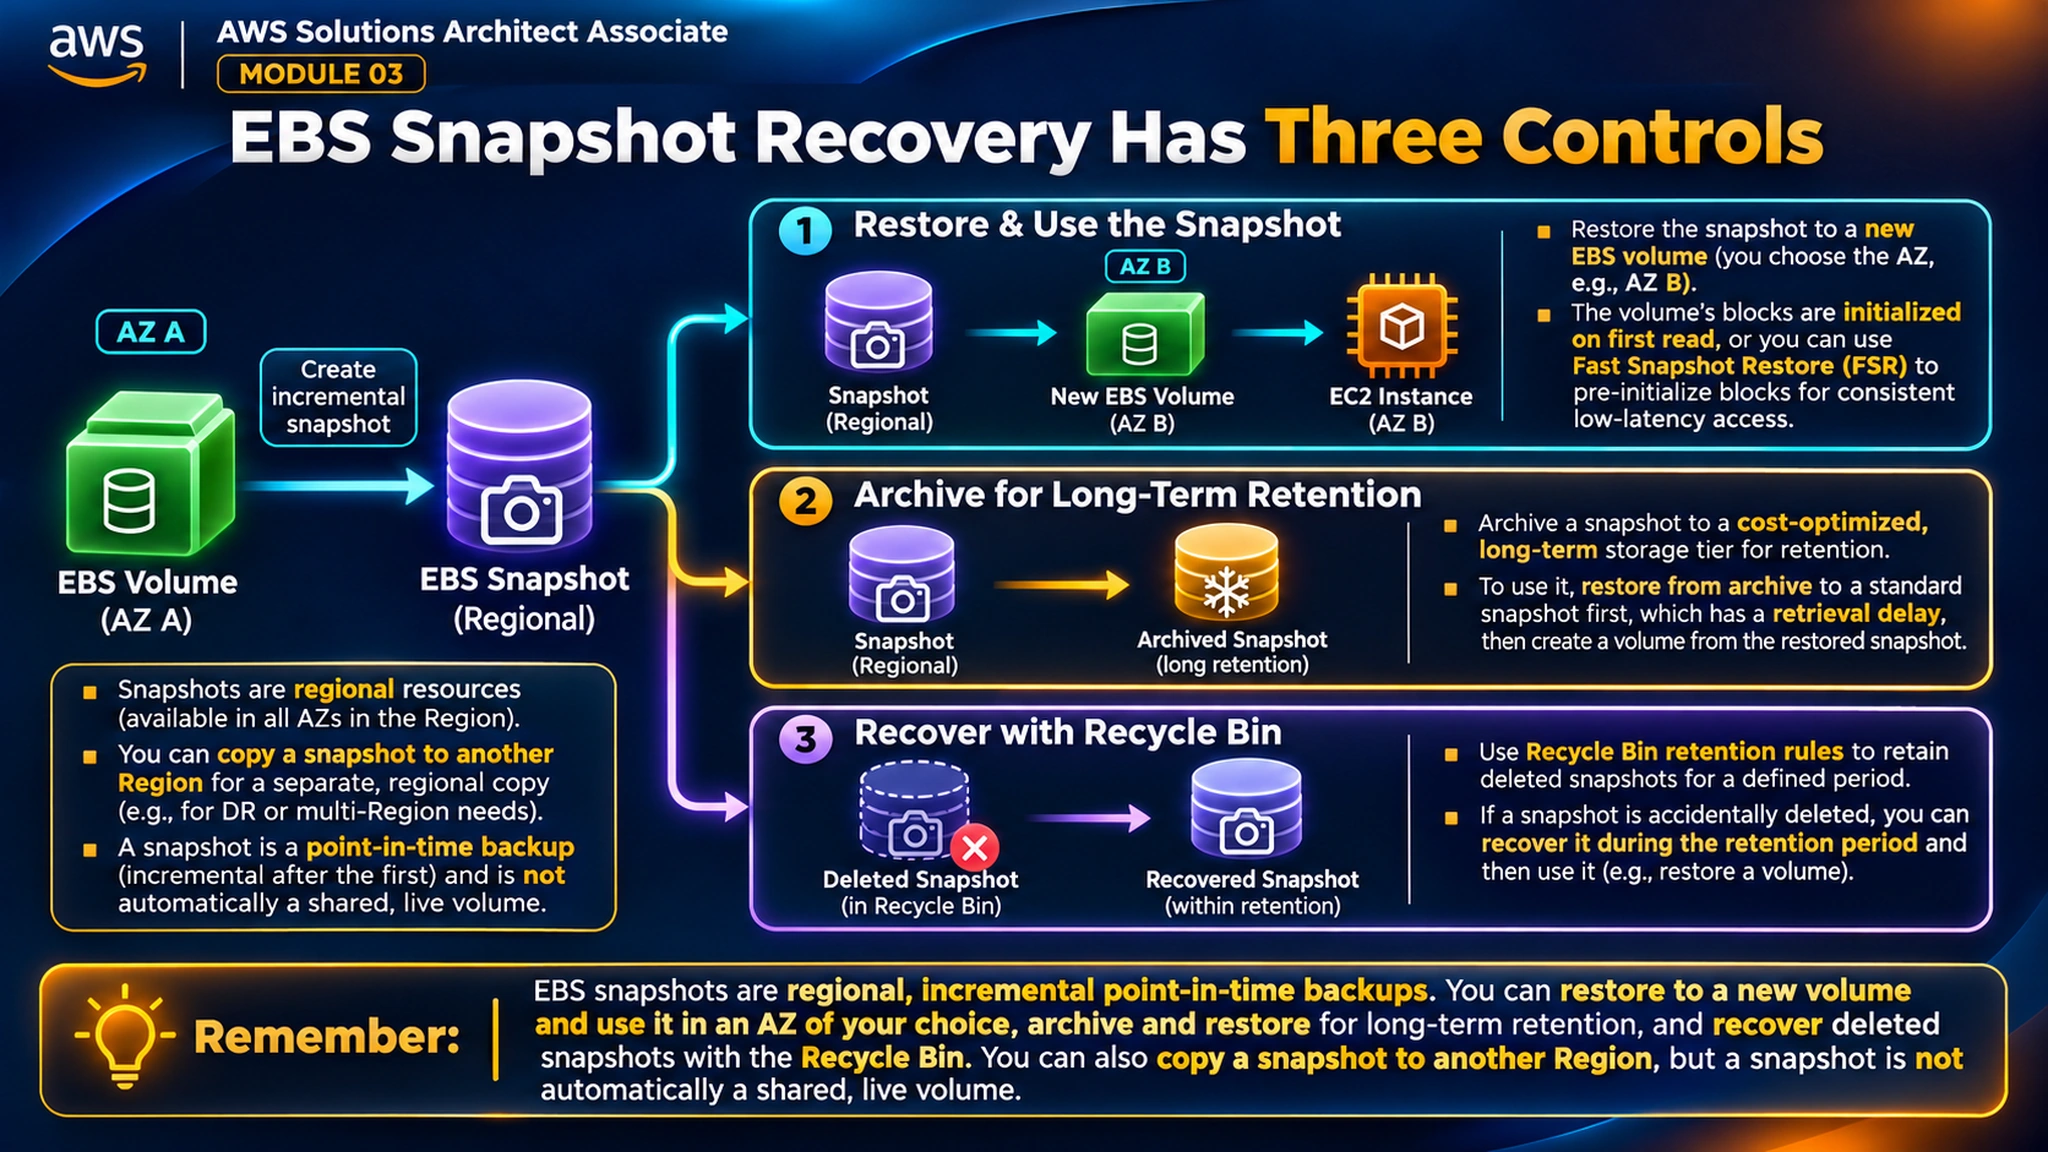
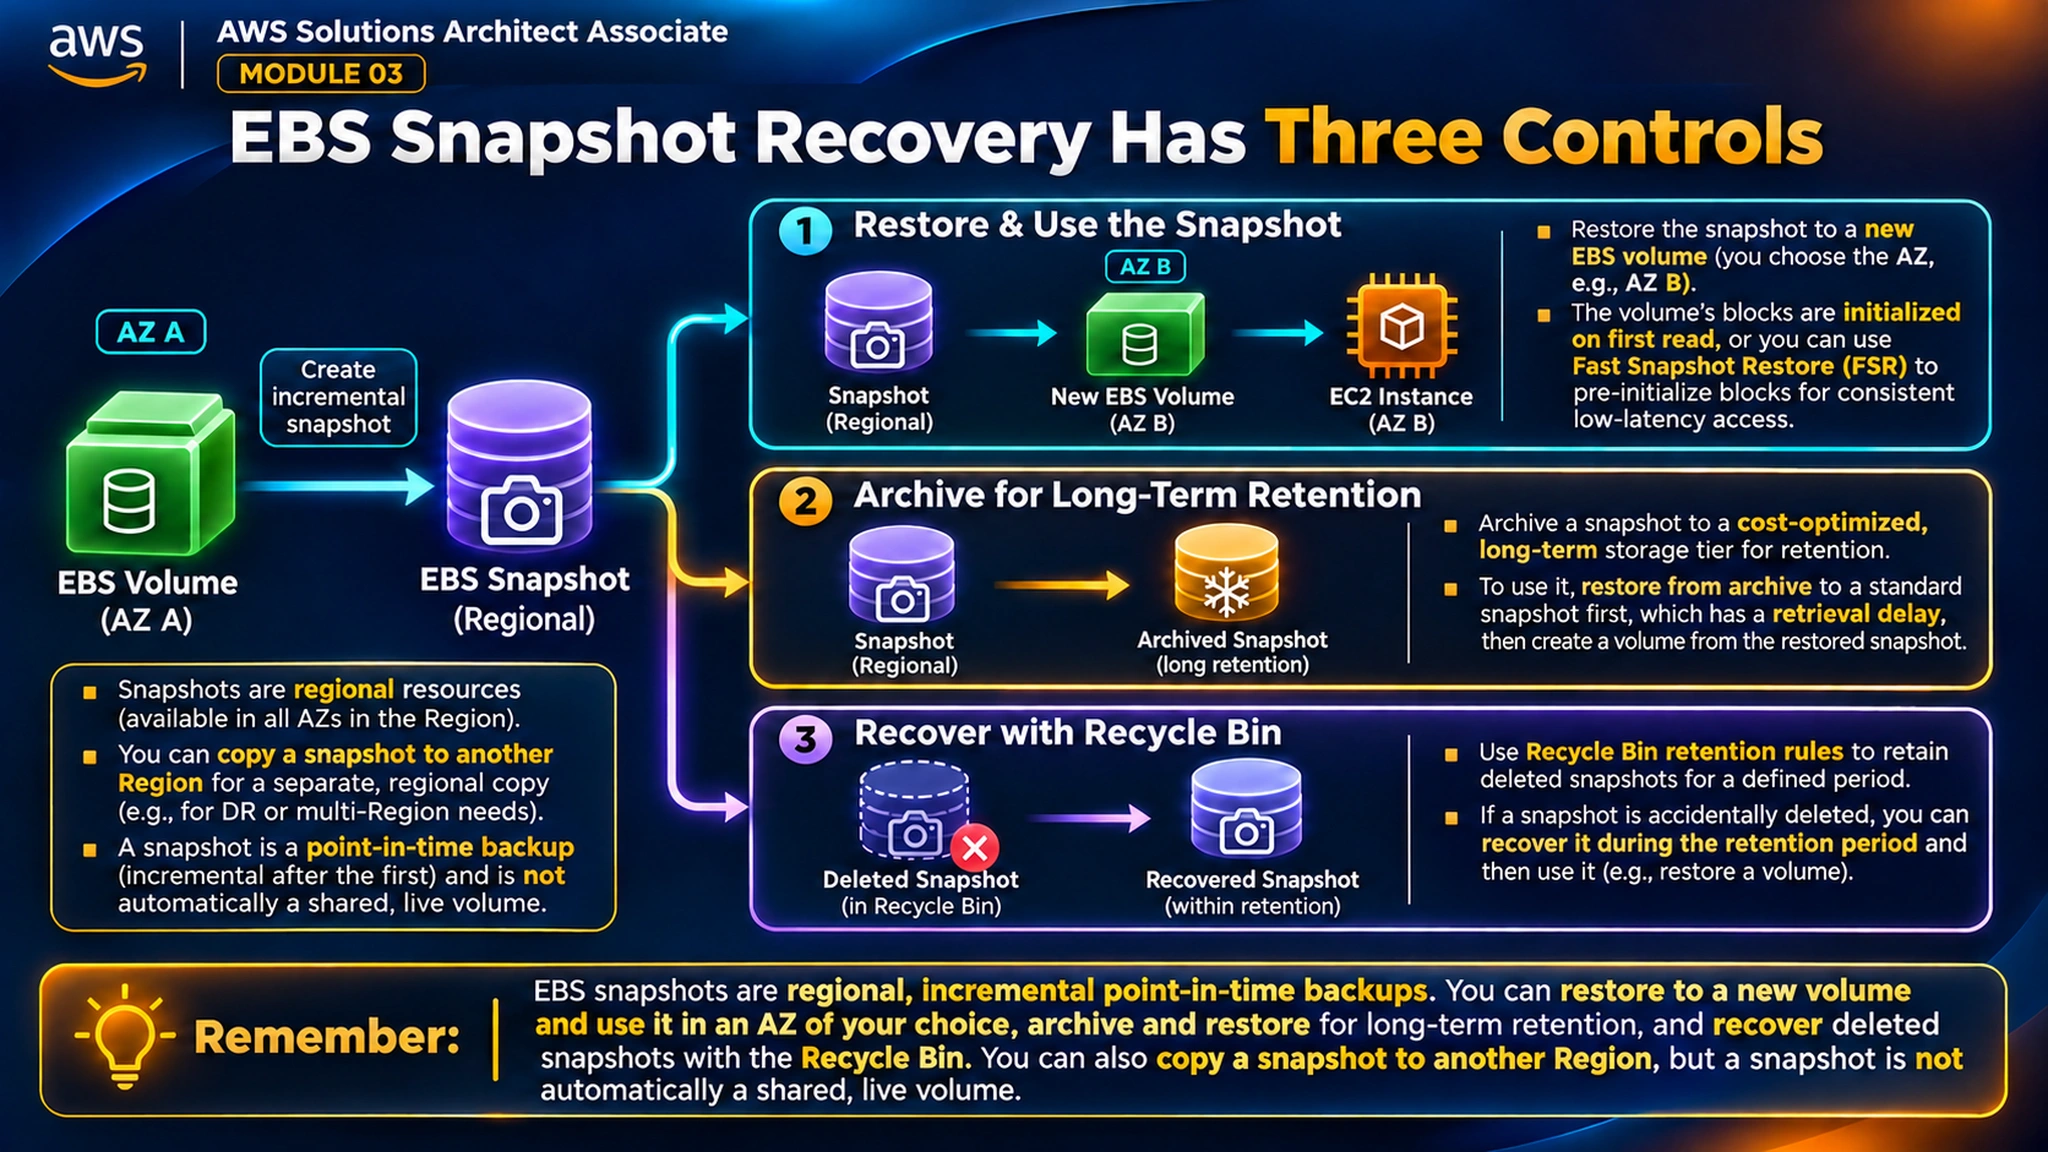
Close SAA visual gaps and add audited Route 53 module

diff --git a/app/components/SaaModuleReference.tsx b/app/components/SaaModuleReference.tsx
@@ -49,6 +49,16 @@ const rows:Record<string,[string,string,string,string][]>= {
   ['Cache-aside / write-through','Load on miss / update cache with writes','Plan TTL, invalidation, eviction and failure behavior.','Write-through needs correct handling of every write path; it cannot universally guarantee fresh reads.'],
   ['Valkey / Redis OSS / Memcached','Choose engine and deployment model','Use sorted sets for ranked data and shared sessions for replaceable app instances.','Replication and backup support depend on engine and deployment; Memcached Serverless supports snapshots.'],
   ['TLS / KMS / IAM / security groups','Transport / stored data / login / network controls','Authorize the network and database identity separately.','An AWS API policy does not automatically grant database or cache login.']
+ ],
+ '06':[
+  ['Public / private hosted zone','Internet-visible / associated VPC DNS view','Choose the zone that should answer the caller’s query.','Creating a private zone alone does not make on-premises resolvers aware of it.'],
+  ['A / AAAA / CNAME / Alias','IPv4 / IPv6 / hostname / supported target','Use alias A or AAAA for supported AWS targets at zone apex.','CNAME cannot occupy the apex; alias target types and TTL depend on target.'],
+  ['Simple / weighted / latency','One response / weighted answers / measured Region latency','Set the routing policy to match the actual goal.','Weights affect answers over time; DNS caching means no exact request split.'],
+  ['Geolocation / geoproximity / IP-based','Query origin geography / biased proximity / CIDR collection','Use the relevant record and sensible default where supported.','These policies do not mean lowest latency.'],
+  ['Endpoint / calculated / CloudWatch health','Public probes / combined state / private metric signal','Check that the health source is reachable or observable.','Public Route 53 health checkers cannot directly probe private subnet IPs.'],
+  ['Failover / multivalue','Primary-secondary / up to eight healthy values','Attach appropriate health checks and plan DNS cache behavior.','Multivalue answers do not replace a load balancer and do not support alias.'],
+  ['Domain registrar / delegation','Purchase name / authorize DNS name servers','Set registrar NS values to the public hosted zone’s name servers.','Creating a Route 53 hosted zone alone does not change domain delegation.'],
+  ['Resolver inbound / outbound','On-prem to AWS private names / VPC to on-prem names','Associate zones or rules and allow required TCP/UDP 53.','Avoid forwarding loops and keep the two directions distinct.']
  ]
 };
 

diff --git a/docs/saa-c03/module-06-coverage.md b/docs/saa-c03/module-06-coverage.md
@@ -1,0 +1,22 @@
+# SAA Module 06 — Route 53: source-page and image audit
+
+Source inventory: course PDF pages 194–227. The course uses original explanations and selected SAP visuals; no source diagrams or phrases are copied.
+
+| PDF pages | Required teaching content | Lessons checked | Result |
+| --- | --- | --- | --- |
+| 194–198 | DNS terminology, recursive/authoritative resolution, actual network connection, Route 53 authoritative role | SAA 06-01; SAP 05-01, 05-02 | Covered |
+| 199–200 | A, AAAA, CNAME, NS, SOA, MX, TXT record structure and purpose | SAA 06-02; SAP 05-16 | Covered |
+| 201–203 | Public/private hosted zones, VPC view, TTL and caching | SAA 06-03; SAP 05-03 through 05-06 | Covered |
+| 204–206 | CNAME versus alias, apex, supported AWS targets and target-managed TTL | SAA 06-03; SAP 05-16 | Covered |
+| 207–210 | Simple, weighted and latency routing, response behavior and cache | SAA 06-04; SAP 05-18 | Covered |
+| 211–215 | Endpoint/calculated/private health signals and primary-secondary failover | SAA 06-06, 06-07; SAP 05-17, 05-24 | Covered |
+| 216–221 | Geolocation, geoproximity bias, IP-based CIDR and multivalue response | SAA 06-05, 06-07; SAP 05-23 | Covered |
+| 222–224 | Registrar, delegation to public hosted zone, third-party registrar | SAA 06-08; SAP 05-16 | Covered |
+| 225–227 | Hybrid DNS, private hosted zones, inbound/outbound Resolver endpoints | SAA 06-09; SAP 05-07 through 05-10, 05-19, 05-22 | Covered |
+
+Nine original SAA images plus 23 selected SAP visuals, 32 lessons total. All image paths and dimensions checked. The SAP image text was inspected with OCR; the nine new diagrams were inspected visually and a misleading inbound-to-outbound arrow in the hybrid slide was corrected before inclusion. The page groups above cover the course PDF teaching topics for this module; specialized SAP content (RAM, Profiles, PrivateLink, DNSSEC and troubleshooting) offers additional context. No exam score guarantee is implied by source coverage.
+
+Current AWS documentation used for changed behaviors:
+- https://docs.aws.amazon.com/Route53/latest/DeveloperGuide/resource-record-sets-choosing-alias-non-alias.html
+- https://docs.aws.amazon.com/Route53/latest/DeveloperGuide/routing-policy.html
+- https://docs.aws.amazon.com/Route53/latest/DeveloperGuide/resolver-overview.html

diff --git a/docs/saa-c03/module-03-coverage.md b/docs/saa-c03/module-03-coverage.md
@@ -24,3 +24,7 @@ Source inventory: AWS Certified Solutions Architect Slides v49, pages 78–118. 
 - 6 new SAA images and 19 selected SAP visuals. The first public-IP draft incorrectly carried a Module 24 label and was excluded. A first DeleteOnTermination image suggested charges stopped on attachment; it was corrected before publication.
 - Current AWS documentation was used to avoid stale source-deck limits and pricing claims, including public IPv4 charges, hibernation prerequisites, EBS type capabilities and EFS storage classes.
 - This is a *topic mapping*, not 100% verified learning coverage. Detailed per-image technical and visual QA, exam-objective traceability and a rendered site check remain open. Do not mark lessons `qa-passed` yet.
+
+## 2026-11-05 correction
+
+The SAA snapshot-recovery image's module badge has been corrected from 05 to 03. Its restore, archive, Recycle Bin, regional-copy and Fast Snapshot Restore teaching content is retained. The 25 lesson paths and all PDF topic groups were checked against the actual images.

diff --git a/docs/saa-c03/module-04-coverage.md b/docs/saa-c03/module-04-coverage.md
@@ -22,3 +22,7 @@ Source inventory: AWS Certified Solutions Architect Slides v49, pages 119–160,
 - 12/12 source-page groups have candidate visuals; 34/34 lesson paths resolve at 2048×1152.
 - 6 new SAA images and 28 selected SAP images. Current AWS docs were used for target tracking, warmup, cooldown and target group stickiness so outdated source-deck defaults are not copied.
 - This is topic mapping. Detailed image-by-image technical and visual QA, SAA-C03 objective traceability and a rendered site check remain open; no `qa-passed` claim is made.
+
+## 2026-11-05 cookie gap closure
+
+Added SAA 04-07 to distinguish ALB duration-based AWSALB from application-based target cookie plus ALB AWSALBAPP. It also explains the target-failure and external-session-store consequence. Module now has 35 mapped visuals; all source-page groups 119–160 have explicit image coverage.
